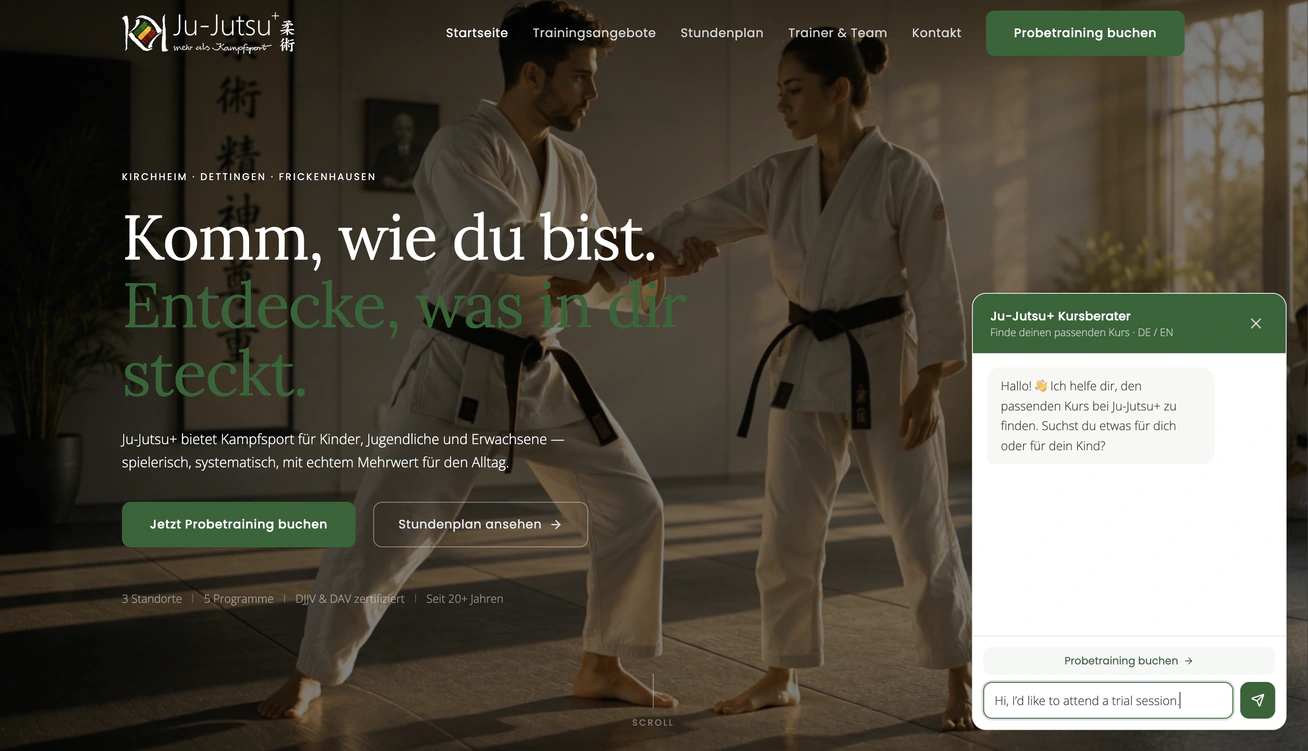
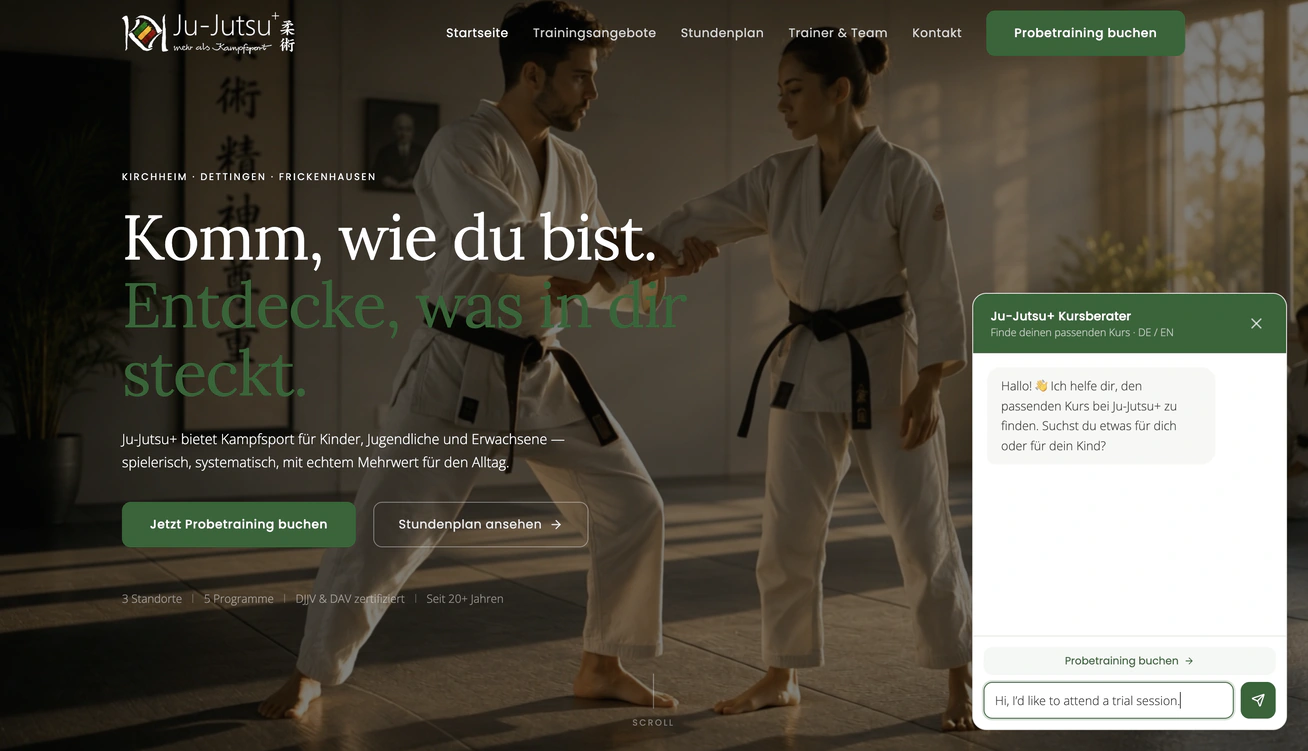
fix: trim the captured border rows from the ju-jutsu grid photos

diff --git a/src/content/workCases.ts b/src/content/workCases.ts
@@ -114,7 +114,7 @@ export const workCases = {
               },
               {
                 copy: 'juJutsu.screens.bookingFlow',
-                image: { src: '/media/works/ju-jitsu/booking-flow.webp', width: 1308, height: 746 },
+                image: { src: '/media/works/ju-jitsu/booking-flow.webp', width: 1308, height: 745 },
               },
               {
                 copy: 'juJutsu.screens.aiAssistance',
